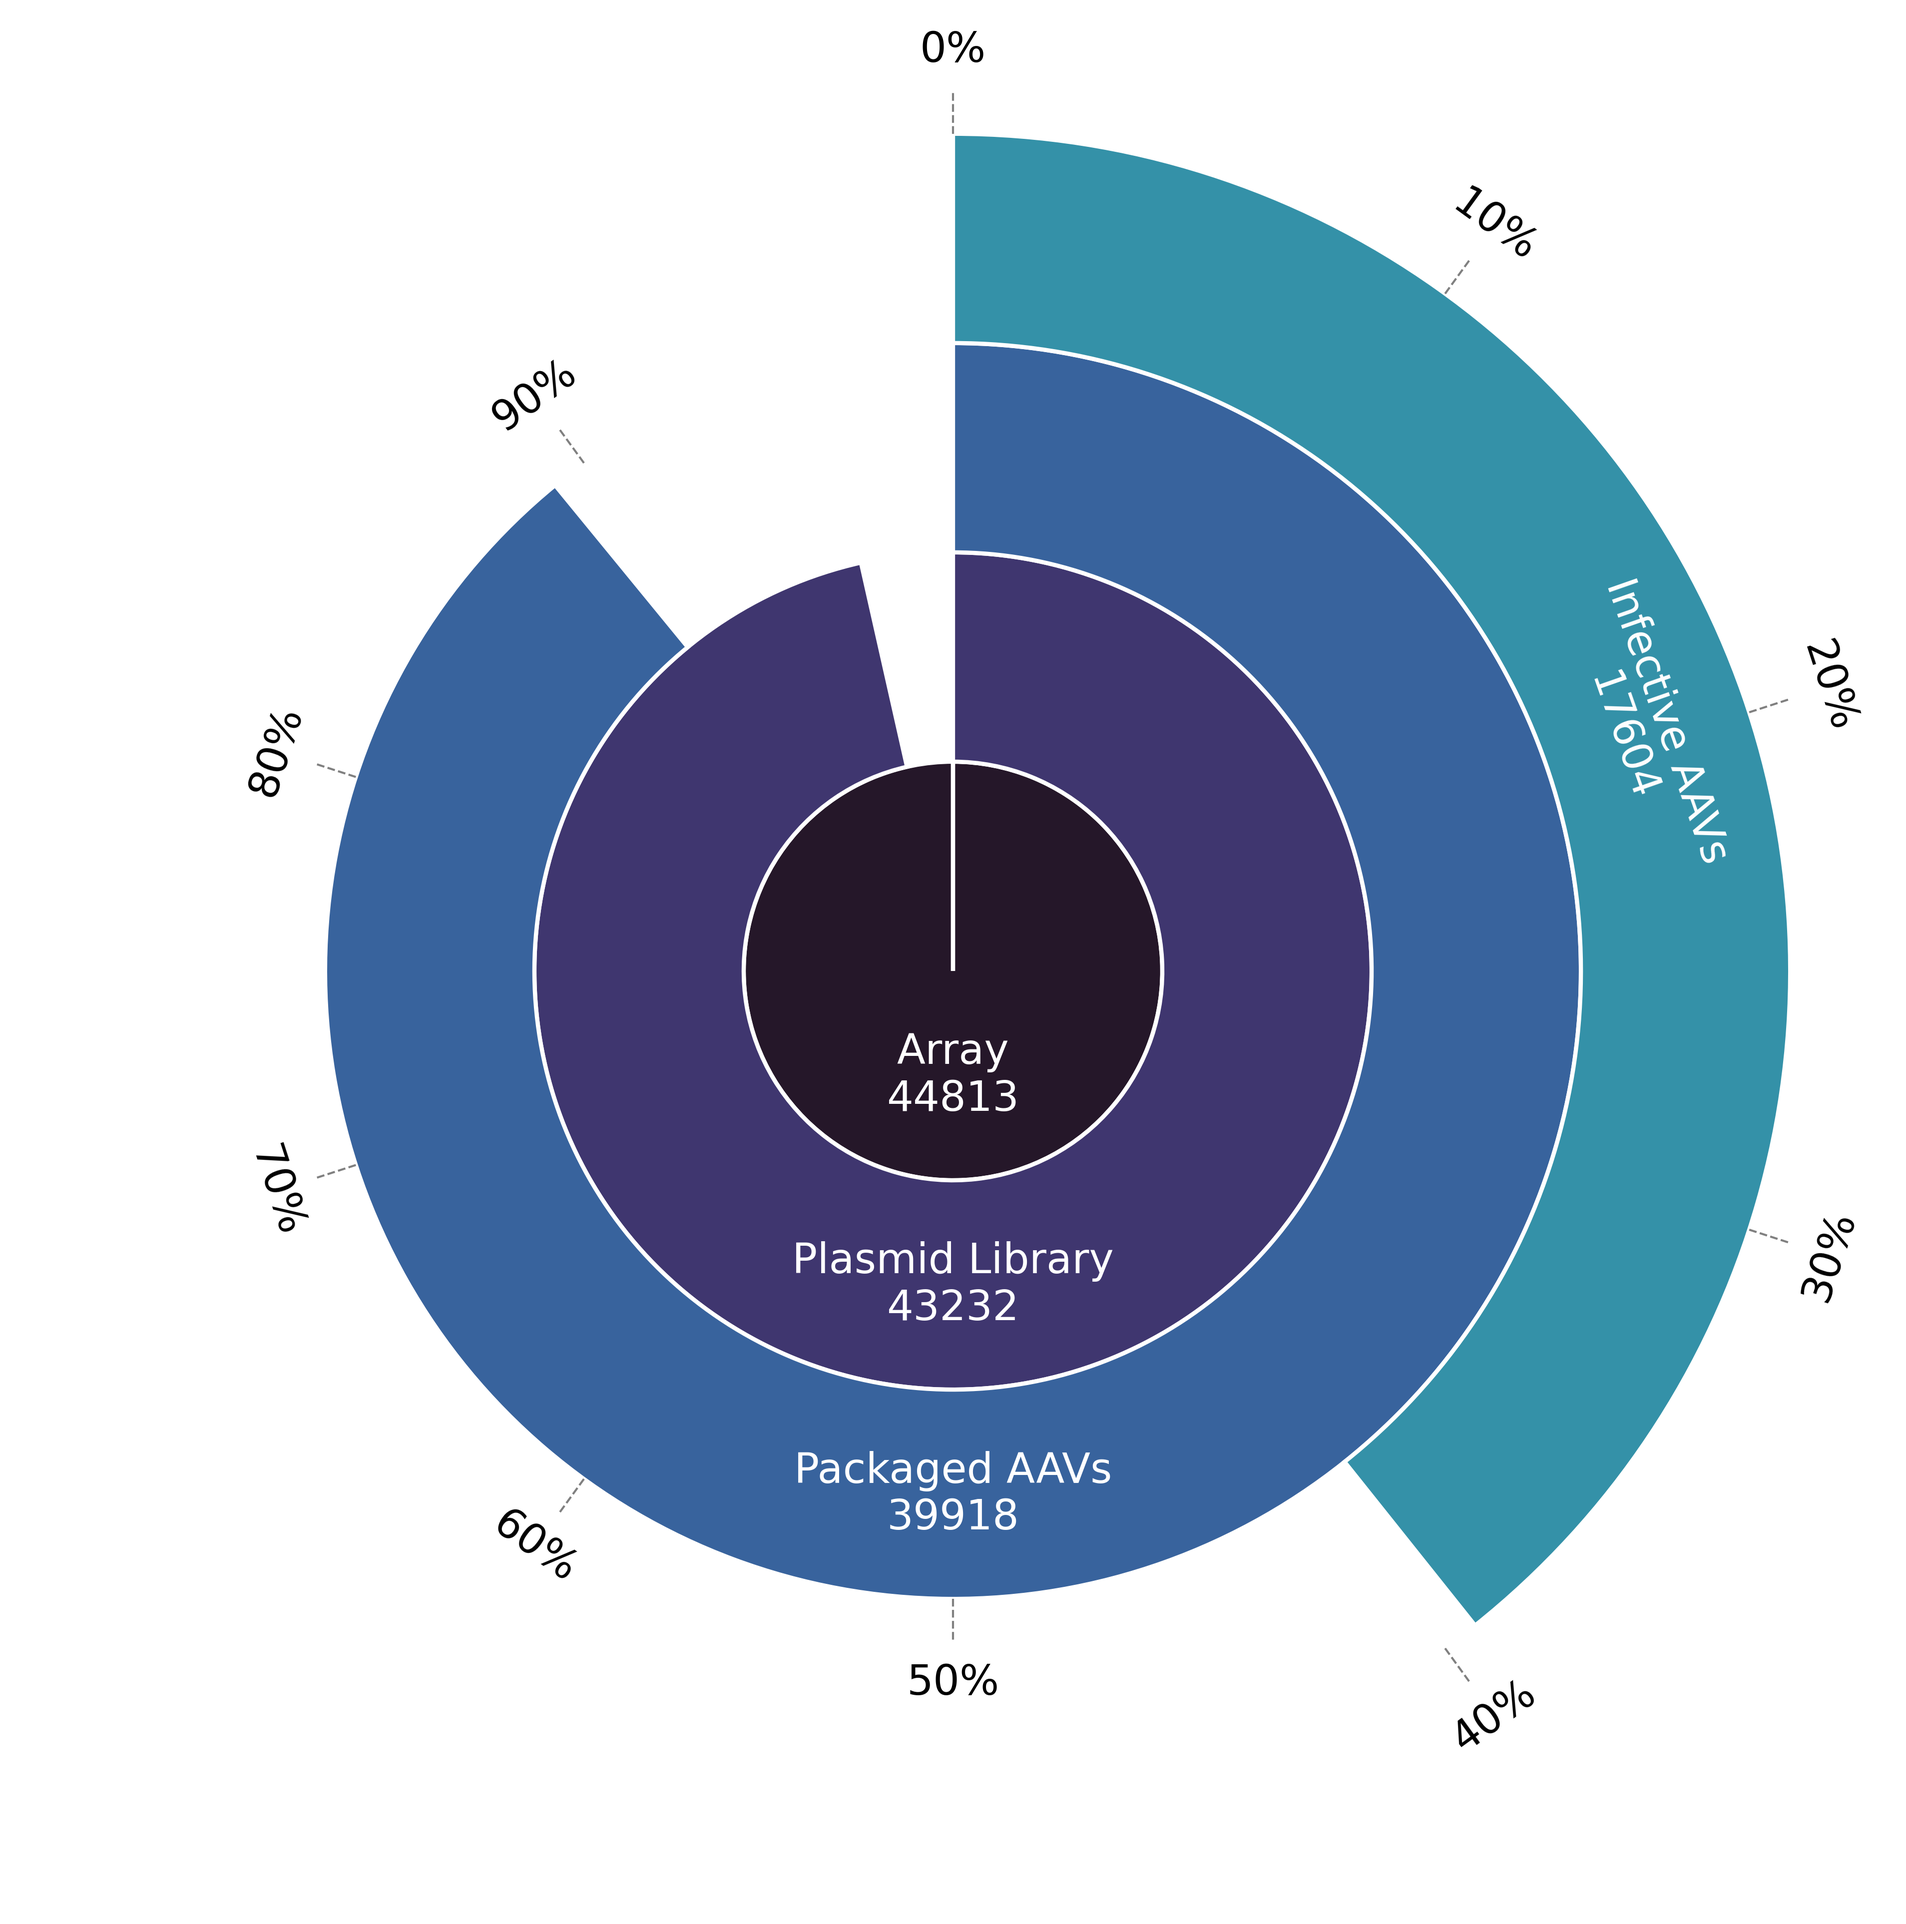
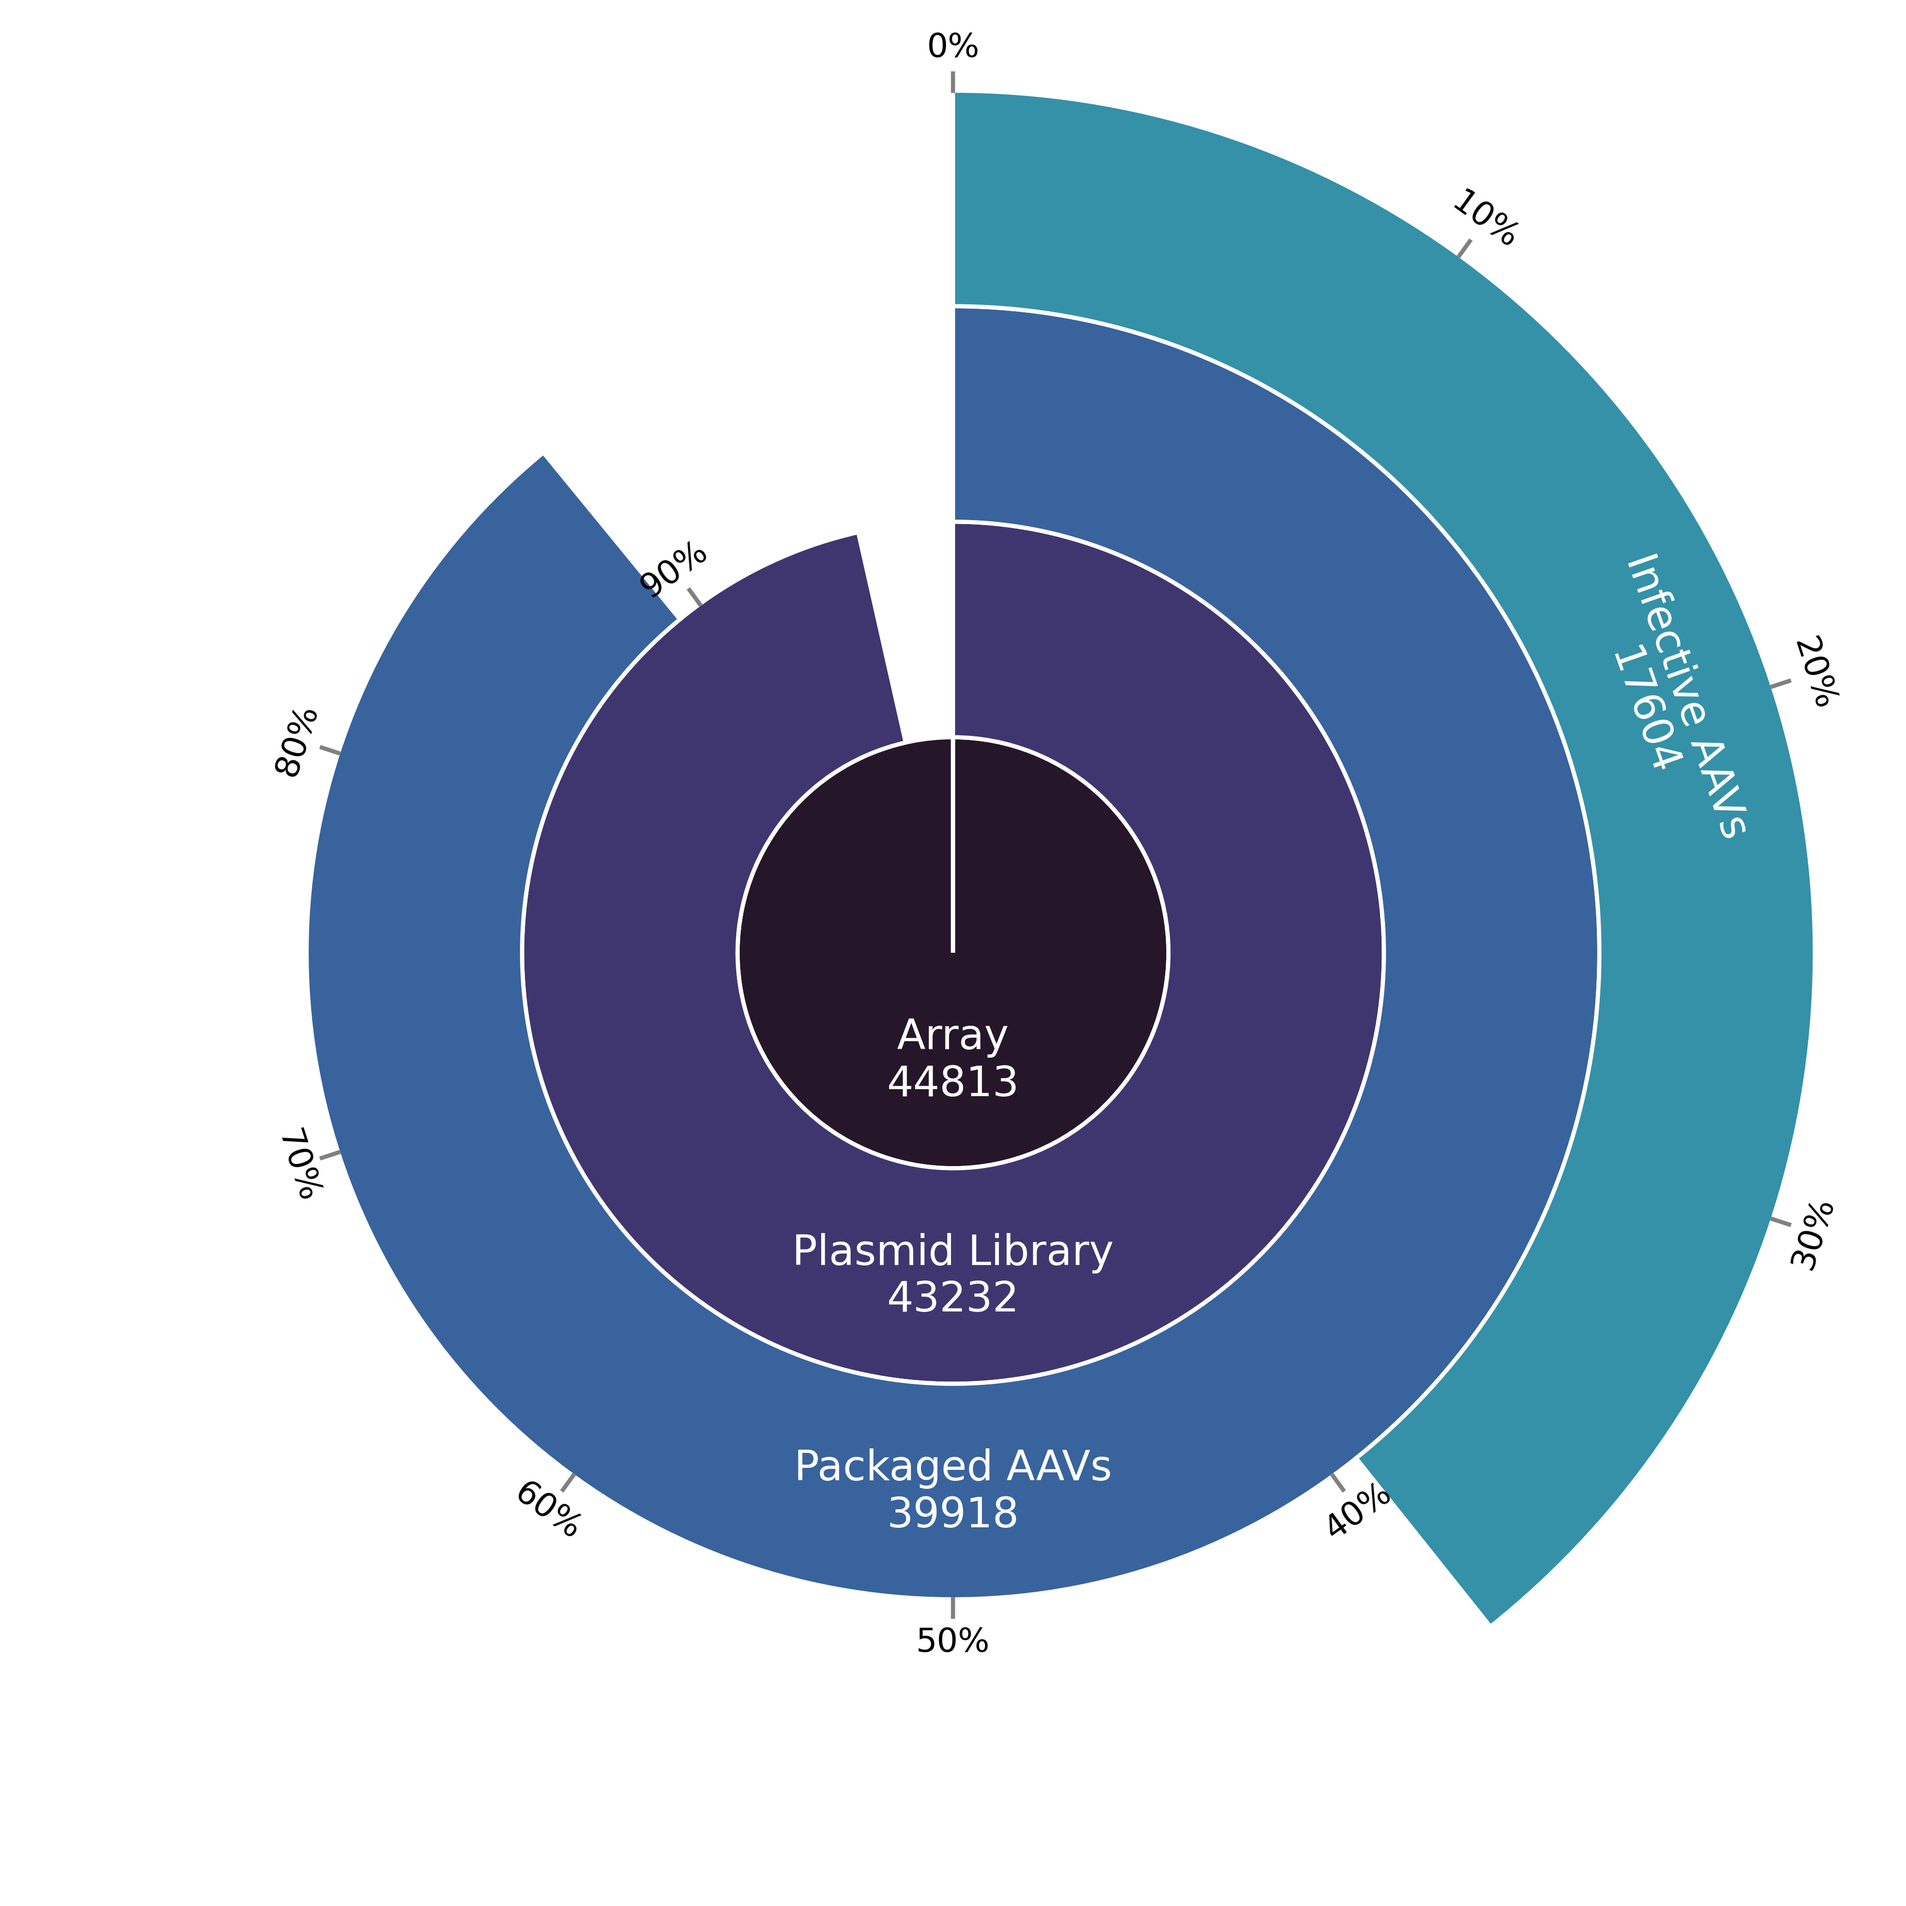
Update Plots

diff --git a/Plotting_Scripts/plotting_functions.py b/Plotting_Scripts/plotting_functions.py
@@ -310,7 +310,7 @@ def plot_quantities(df: pd.DataFrame, groups: dict, max_value: dict, step_size: 
     radius = 1 
     for i, (_,length) in enumerate(group_items):
         # Generate values for grid lines
-        temp_values = [value for value in values if value <= (length+max_val*0.05)]
+        temp_values = [value for value in values if value <= (length+max_val*0.004)]
         
         # delete all values in temp_values from values
         for value in temp_values:
@@ -322,9 +322,9 @@ def plot_quantities(df: pd.DataFrame, groups: dict, max_value: dict, step_size: 
         # Draw grid lines and labels
         for angle, value in zip(angles, temp_values):
             # Draw the grid line from inner to outer radius of the ring
-            ax.plot([angle, angle], [radius + size, radius + size + 0.05], color='grey', linewidth=0.5, linestyle='--')
+            ax.plot([angle, angle], [radius + size, radius + size + 0.02], color='grey', linewidth=1, linestyle='-')
             # Place the label slightly outside the outer radius
-            label_radius = radius + size + 0.1 
+            label_radius = radius + size + 0.05
             # Calculate position for annotation so it is centered on the grid line
             angle_deg = np.degrees(angle)
             rotation = 360 - angle_deg if angle_deg > 180 else -angle_deg
@@ -339,7 +339,7 @@ def plot_quantities(df: pd.DataFrame, groups: dict, max_value: dict, step_size: 
                 f"{value/max_val*100:.0f}%",
                 ha='center',
                 va='center',
-                fontsize=10,
+                fontsize=8,
                 color='black',
                 rotation=rotation,
                 rotation_mode='anchor'
